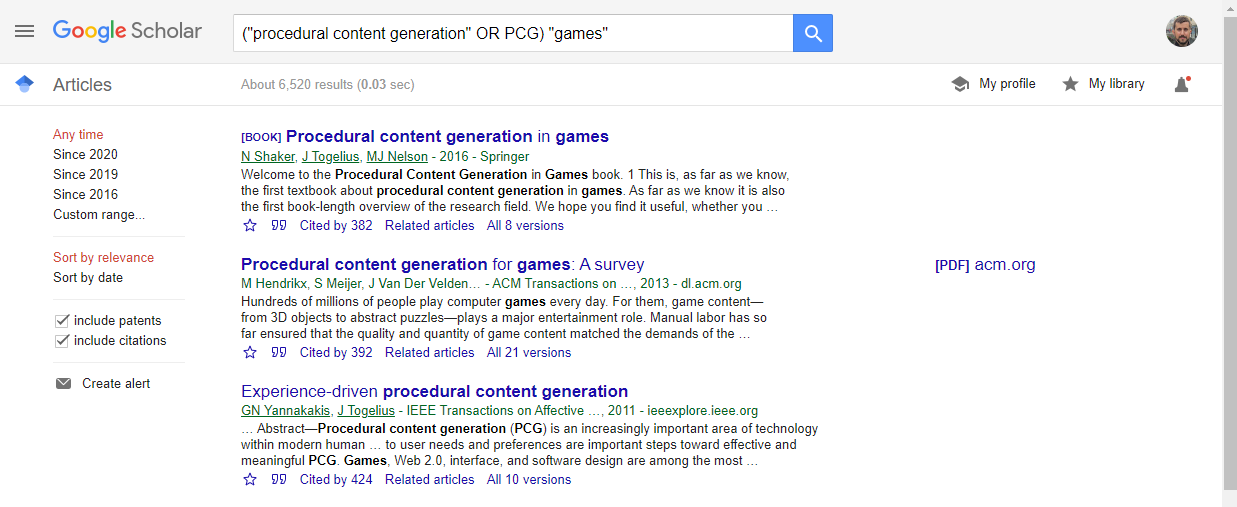
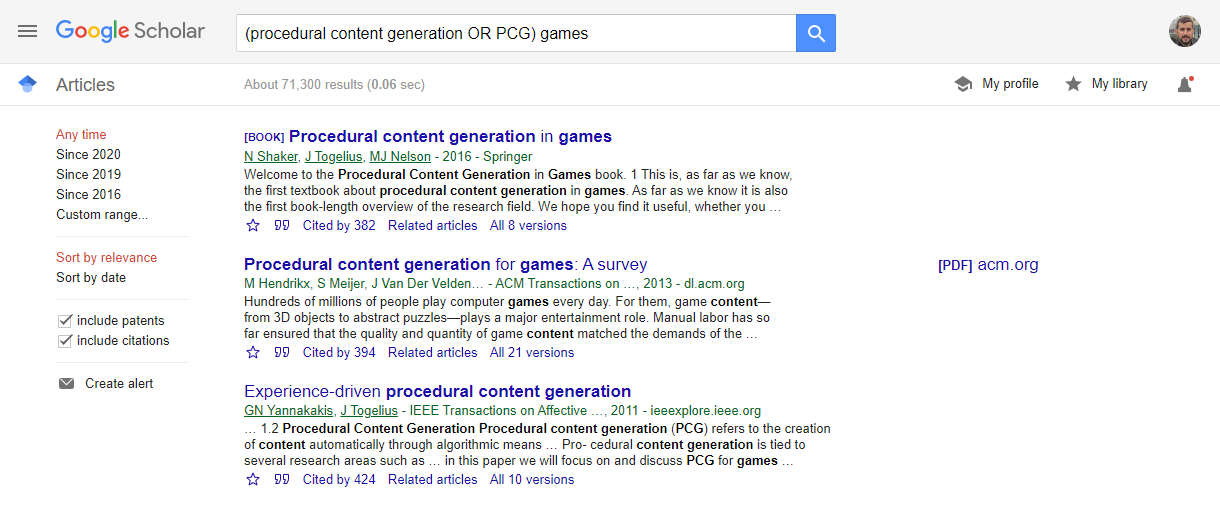
Adiciona todo o conteúdo para a revisão bibliográfica

diff --git a/docs/revisao-bibliografica.md b/docs/revisao-bibliografica.md
@@ -46,11 +46,13 @@ Geralmente você está em busca de um artigo que tenha:
 
 > **DICA:** para saber se uma conferência/periódico/journal é confiável, busque pelo nome dele no site [qualis.ic.ufmt.br](https://qualis.ic.ufmt.br) e confira o **Extrato CAPES** (também conhecido como **Qualis**). Os valores possíveis do Qualis são (na ordem do mais para o menos importante): A1, A2, B1, B2, B3, B4 e B5. Quando mais próximo do A1, mais consolidado (e confiável) é o veículo de publicação. Veículos com qualis B5 ou sem qualis geralmente não são muito estabelecidos ainda (pouco impacto científico). 
 
-Além dessa informações, o resultado contém alguns botões/links muito útis que podem
+Além dessa informações, o resultado contém alguns botões/links muito útis que podem ajudar no seu trabalho:
 
 ![](img/google-scholar-result-focus-detailed-tools.png)
 
 O botão da "estrela" permite que você salve essa referência na sua biblioteca do Google Scholar. Essa é uma forma rápida de guardar artigos para consultar depois. Você pode acessar sua biblioteca do Google Scholar clicando em [My library](https://scholar.google.se/scholar?scilib=1&hl=en&as_sdt=0,5) no canto superior direito da página.
+
+> **DICA:** Artigos salvos na biblioteca do Google Scholar ficam na sua conta do Google, então você pode fechar a página e voltar outro dia sem perder seus artigos.
 
 O botão das "aspas" mostra as informações bibliográficas (de citação) do artigo:
 
@@ -60,3 +62,55 @@ Você pode consultar, por exemplo, o nome completo do veículo onde o artigo foi
 
 > **DICA:** veja a página [Aprenda Latex em 5 minutos](latex-5min.md) para saber como importar e utilizar uma referência bibliográfica BibTeX.
 
+## 2. Defina uma string de busca
+
+Buscar em uma base científica é muito parecido como utilizar o Google, mas você precisa refinar sua busca. Caso contrário, é provável que você não consiga fazer um bom panorama do estado da arte.
+
+> **DICA:** seu orientador(a) provavelmente já tem uma string de busca bem definida que você pode usar. Quando melhor a string de busca, mais chances você tem de encontrar material relevante para sua pesquisa.
+
+A melhor forma de entender o que é uma string de busca é ver ela em ação. Imagine que você procura sobre geração procedural de conteúdo para games. Uma string de busca possível é _procedural content generation games_, que resulta no seguinte:
+
+![](img/google-scholar-results.png)
+
+O termo _Procedural Content Generation_ geralmente é abreviado como PCG, então precisamos cobrir isso também. Nesse caso, podemos usar parêntes e o operador _OR_ na string para garantir que _procedural content generation_ *ou* PCG serão encontrados juntamente com games:
+
+![](img/google-scholar-search-semi-complex.png)
+
+Apenas escrever _procedural content generation_, porém, não garante que a busca retorne itens que contenham essas 3 palavras, nessa mesma ordem. Por exemplo, podemos buscar por _generation content procedural_ ao invés de _procedural content generation_ e encontrar praticamente os mesmos resultados:
+
+![](img/google-scholar-search-semi-complex2.png)
+
+Para garantir que um termo de várias palavras seja encontrado, você pode colocar o termo entre áspas duplas. O termo de busca passa a ser, então, _"procedural content generation"_:
+
+![](img/google-scholar-search-semi-complex3.png)
+
+E se você quiser procurar por geração procedural de conteúdo (e suas variações) no contexto de games, que também tem variações nas palavras? Alguém pode ter escrito _game_ ao invés de _games_ em um artigo, por exemplo.
+
+Nesse caso, usando a mesma lógica de antes, utilizam-se parêntes e o operador *OR* com os termos relacionados a games. Pode-se escrever, então, _games_ ou _game_:
+
+![](img/google-scholar-search-semi-complex4.png)
+
+Por fim, se você quer garantir que os termos "procedural content generation" ou PCG *e* games ou game sejam encontrados juntos, você pode combinar os operadores *AND* e *OR* e as expressões entre parênteses: 
+
+![](img/google-scholar-search-semi-complex5.png)
+
+## 3. Leia vários artigos
+
+Depois que você definiu uma boa string de busca junto ao seu orientador(a), é hora de ler os artigos. Você não precisa ler todos os artigos existentes no planeta, mas precisa ler uma quantidade razoável. Quantos? Não há um número mágico, mas você precisa ter lido o suficiente para entender o problema e, principalmente, o que os outros estão fazendo para solucionar esse problema.
+
+Quanto mais artigos você ler, mais chances você tem de identificar autores importantes, trabalhos correlatos ao seu ou entre si. Uma forma eficiente de ler artigos em uma revisão bibliográfica é ler o abstract, a introdução e os resultados do artigo. Lendo essas seções, você tem uma boa ideia se o artigo em questão está ou não relacionado ao seu TCC. Se for relacionado, leia o artigo por completo. Se estiver minimamente relacionado, você pode guardar para ler depois ou utilizar como uma referência complementar. Se o artigo não estiver relacionado, descarte o artigo.
+
+> **DICA:** o importante para uma boa revisão bibliográfica é ter um visão mínima do campo. Pricipalemente **o que, como e os resultados** que outros tiveram. Faça um pequeno resumo de cada artigo relevante mencionamento exatamente isso: o que, como e os resultados obtidos pelos autores. Esse pequeno resumo pode ser colocado na íntegra no capítulo de _trabalhos relacionados_ do seu TCC.
+
+Identificando o que, como e quais resultados foram obtidos por outros pesquisadores, você pode posicionar o seu trabalho. Em outras palavras, você pode dizer o que é igual, o que é diferente, e o que é esperado acontecer. Uma metáfora simples para esse contexto é imaginar que você está "amarrando" seu trabalho: quanto mais artigos você leu, mais você consegue dizer o quão similar (ou diferente) eles são entre si e em relação ao seu trabalho; dessa forma, mais "amarrado a outros" e fundamentado é o seu trabalho.
+
+Essa é a base da ciência: construir sobre aquilo que já foi feito, testado e fundamentado. Você não precisa se estressar em fazer algo completamente diferente. Foque em entender o que e como algo foi feito, e ache um detalhe mínimo que você pode tentar fazer diferente. Mesmo que você replique exatamente o mesmo procedimento de um trabalho anterior, o fato de repetir ele pelas próprias mãos já é algo diferente. Você está comprovando algo.
+
+## 4. Converse com seu orientador(a) frequentemente
+
+Seu orientador(a) possui experiência de pesquisa e pode ajudar a entender ou analisar um artigo. Faça reuniões periódicas para saber se está no caminho certo. Não tenha medo de perguntar ou verificar.
+
+# Mais informações
+
+* [Como trabalhar meu projeto no Overleaf](docs/overleaf.md)
+* [Aprenda Latex em 5 minutos](docs/latex-5min.md)

diff --git a/docs/README.md b/docs/README.md
@@ -1,147 +1,32 @@
-# Docs
+# Introduçãp
 
-This docs are powered by [docsify](https://docsify.js.org). To test it locally, just run anything that servers the `docs` folder in a webserver.
+Esse site contém informações, materiais, guias e dicas para criação e condução do seu Trabalho de Conclusão de Curso (TCC). Há informações tanto para o TCC I quanto para o II.
 
-Using docsify itself, first install `docsify-cli`:
+> **IMPORTANTE:** está procurando o modelo Latex para escrever seu TCC? Ele já está pronto e disponível para uso no [Overleaf](https://overleaf.com). Acesse o projeto [modelo de TCC 1](https://www.overleaf.com/read/pbkfpzgjcdxw) ou [modelo de TCC 2](tcc2) (conforme seu caso), faça uma cópia desse projeto, e comece a trabalhar sem complicações. Se você nunca usou o [Overleaf](https://overleaf.com), leia [esse tutorial](docs/overleaf.md).
 
-```
-npm i docsify-cli -g
-```
+## Começando
 
-then run:
+### 1. Inicie um projeto online no Overleaf
 
-```
-docsify serve docs
-```
+Modelos para escrita do TCC estão disponíveis e pronetos para uso como projetos no [Overleaf](https://overleaf.com). Basta acessar o projeto, fazer uma cópia, e começe a trabalhar:
 
-Alternatively, you can use the built-in Python webserver:
+* [Modelo do TCC 1 no Overleaf](https://www.overleaf.com/read/pbkfpzgjcdxw)
+* [Modelo do TCC 2 no Overleaf](https://www.overleaf.com/)
 
-```
-cd docs && python -m SimpleHTTPServer 3000
-```
+### 2. Leia o guia de TCC
 
-# Adding more pages to this docs
+Você pode ler o guia na pasta [docs](docs) desse repositório, ou online em [ccuffs.github.io/guia-tcc](https://ccuffs.github.io/guia-tcc). O guia contém textos e dicas para você escrever seu TCC. Comece pelo seguinte:
 
-If you need more pages, you can simply create more markdown files in your docsify directory. If you create a file named `guide.md`, then it is accessible via `/#/guide`.
+* [Cheguei no TCC, e agora?](docs/intro.md)
+* [Como fazer uma revisão bibliográfica](docs/revisao-bibliografica.md)
+* [Como trabalhar meu projeto no Overleaf](docs/overleaf.md)
+* [Aprenda Latex em 5 minutos](docs/latex-5min.md)
 
-For example, the directory structure is as follows:
+## Links úteis
 
-```text
-.
-└── docs
-    ├── README.md
-    ├── guide.md
-    └── zh-cn
-        ├── README.md
-        └── guide.md
-```
+Abaixo está uma lista de links interessantes e projetos similares:
 
-Matching routes
-
-```text
-docs/README.md        => http://domain.com
-docs/guide.md         => http://domain.com/#/guide
-docs/zh-cn/README.md  => http://domain.com/#/zh-cn/
-docs/zh-cn/guide.md   => http://domain.com/#/zh-cn/guide
-```
-
-## Sidebar
-
-In order to have sidebar, then you can create your own `_sidebar.md` (see [this documentation's sidebar](https://github.com/docsifyjs/docsify/blob/master/docs/_sidebar.md) for an example):
-
-First, you need to set `loadSidebar` to **true**. Details are available in the [configuration paragraph](configuration.md#loadsidebar).
-
-```html
-<!-- index.html -->
-
-<script>
-  window.$docsify = {
-    loadSidebar: true
-  }
-</script>
-<script src="//unpkg.com/docsify/lib/docsify.min.js"></script>
-```
-
-Create the `_sidebar.md`:
-
-```markdown
-<!-- docs/_sidebar.md -->
-
-* [Home](/)
-* [Guide](guide.md)
-```
-
-You need to create a `.nojekyll` in `./docs` to prevent GitHub Pages from ignoring files that begin with an underscore.
-
-## Nested Sidebars
-
-You may want the sidebar to update with only navigation to reflect the current directory. This can be done by adding a `_sidebar.md` file to each folder.
-
-`_sidebar.md` is loaded from each level directory. If the current directory doesn't have `_sidebar.md`, it will fall back to the parent directory. If, for example, the current path is `/guide/quick-start`, the `_sidebar.md` will be loaded from `/guide/_sidebar.md`.
-
-You can specify `alias` to avoid unnecessary fallback.
-
-```html
-<script>
-  window.$docsify = {
-    loadSidebar: true,
-    alias: {
-      '/.*/_sidebar.md': '/_sidebar.md'
-    }
-  }
-</script>
-```
-
-!> You can create a `README.md` file in a subdirectory to use it as the landing page for the route.
-
-## Set Page Titles from Sidebar Selection
-
-A page's `title` tag is generated from the _selected_ sidebar item name. For better SEO, you can customize the title by specifying a string after the filename.
-
-```markdown
-<!-- docs/_sidebar.md -->
-* [Home](/)
-* [Guide](guide.md "The greatest guide in the world")
-```
-
-## Table of Contents
-
-Once you've created `_sidebar.md`, the sidebar content is automatically generated based on the headers in the markdown files.
-
-A custom sidebar can also automatically generate a table of contents by setting a `subMaxLevel`, compare [subMaxLevel configuration](configuration.md#submaxlevel).
-
-```html
-<!-- index.html -->
-
-<script>
-  window.$docsify = {
-    loadSidebar: true,
-    subMaxLevel: 2
-  }
-</script>
-<script src="//unpkg.com/docsify/lib/docsify.min.js"></script>
-```
-
-## Ignoring Subheaders
-
-When `subMaxLevel` is set, each header is automatically added to the table of contents by default. If you want to ignore a specific header, add `{docsify-ignore}` to it.
-
-```markdown
-# Getting Started
-
-## Header {docsify-ignore}
-
-This header won't appear in the sidebar table of contents.
-```
-
-To ignore all headers on a specific page, you can use `{docsify-ignore-all}` on the first header of the page.
-
-```markdown
-# Getting Started {docsify-ignore-all}
-
-## Header
-
-This header won't appear in the sidebar table of contents.
-```
-
-Both `{docsify-ignore}` and `{docsify-ignore-all}` will not be rendered on the page when used.
+* [Repositório Digital da UFFS de TCCs de Ciência da Computação](https://rd.uffs.edu.br/handle/prefix/67)
+* [uffstex](https://github.com/ccuffs/uffstex)
+* [Modelo do TCC 1 (Overleaf)](https://www.overleaf.com/read/pbkfpzgjcdxw)
+* [Modelo do TCC 2 (Overleaf)](https://www.overleaf.com/)
